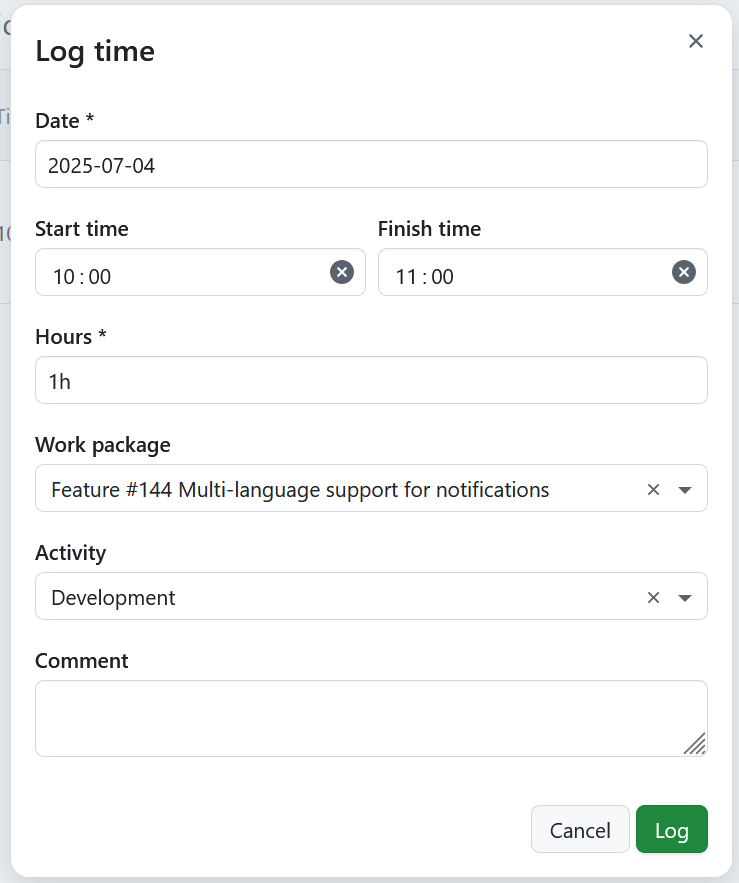
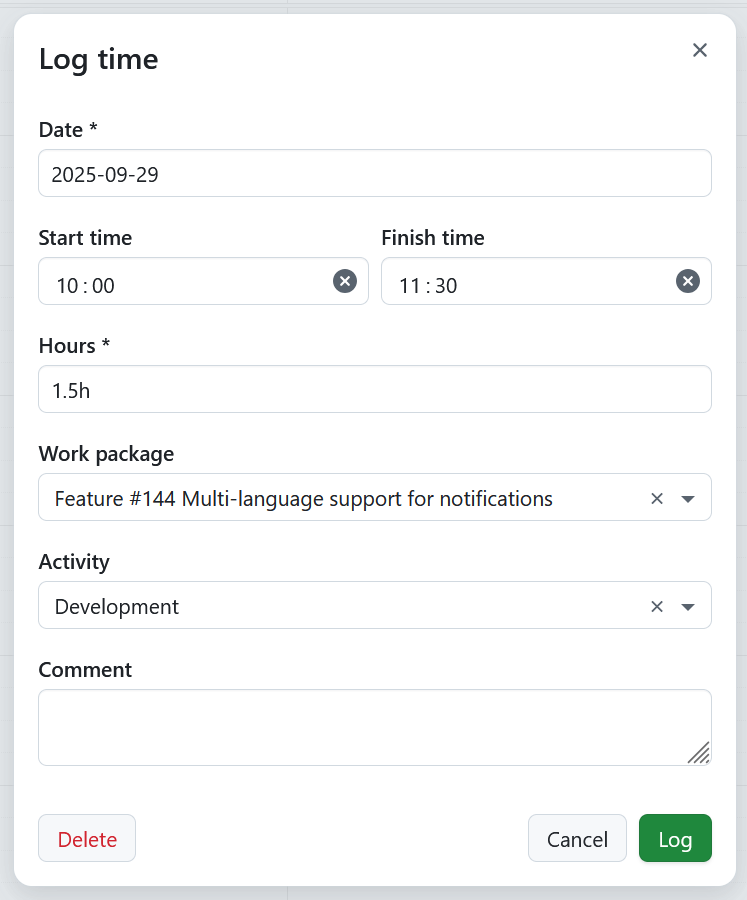
[#67686] Consistent entering of hours in duration fields  https://community.openproject.org/work_packages/67686
[#67686] Consistent entering of hours in duration fields

https://community.openproject.org/work_packages/67686

diff --git a/docs/user-guide/time-and-costs/my-time-tracking/README.md b/docs/user-guide/time-and-costs/my-time-tracking/README.md
@@ -105,7 +105,15 @@ To log time on the *My time tracking* page, click the **+ Log time** button. A m
 > These fields are only visible if the **Allow exact times tracking** option is enabled by an administrator.
 > If the **Require exact times** option is also enabled, these fields become mandatory in order to save the time entry.
 
-- **Hours** – Enter the number of hours you want to log for a specific work package.
+- **Hours** – Enter the number of hours you want to log for a specific work package. 
+
+> [!TIP]
+>  Duration can be entered both in hours and minutes. For example for logging 1,5 hours, you can enter:
+>  - 1.5h
+>  - 90m
+>  - 90min
+>  - 1:30
+
 
 - **Work package** – Type to search for a work package or select from the list of recently used ones.
 